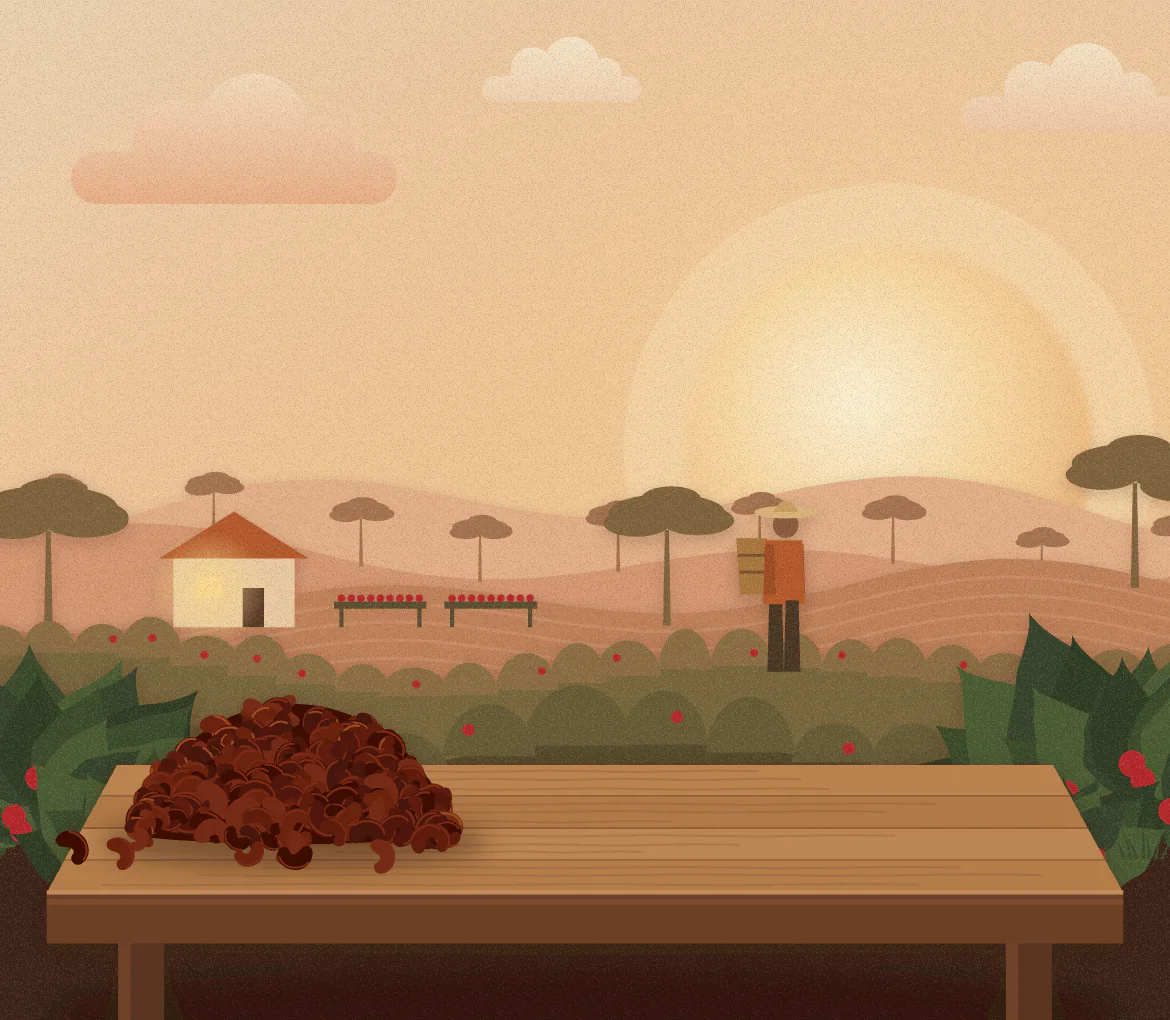
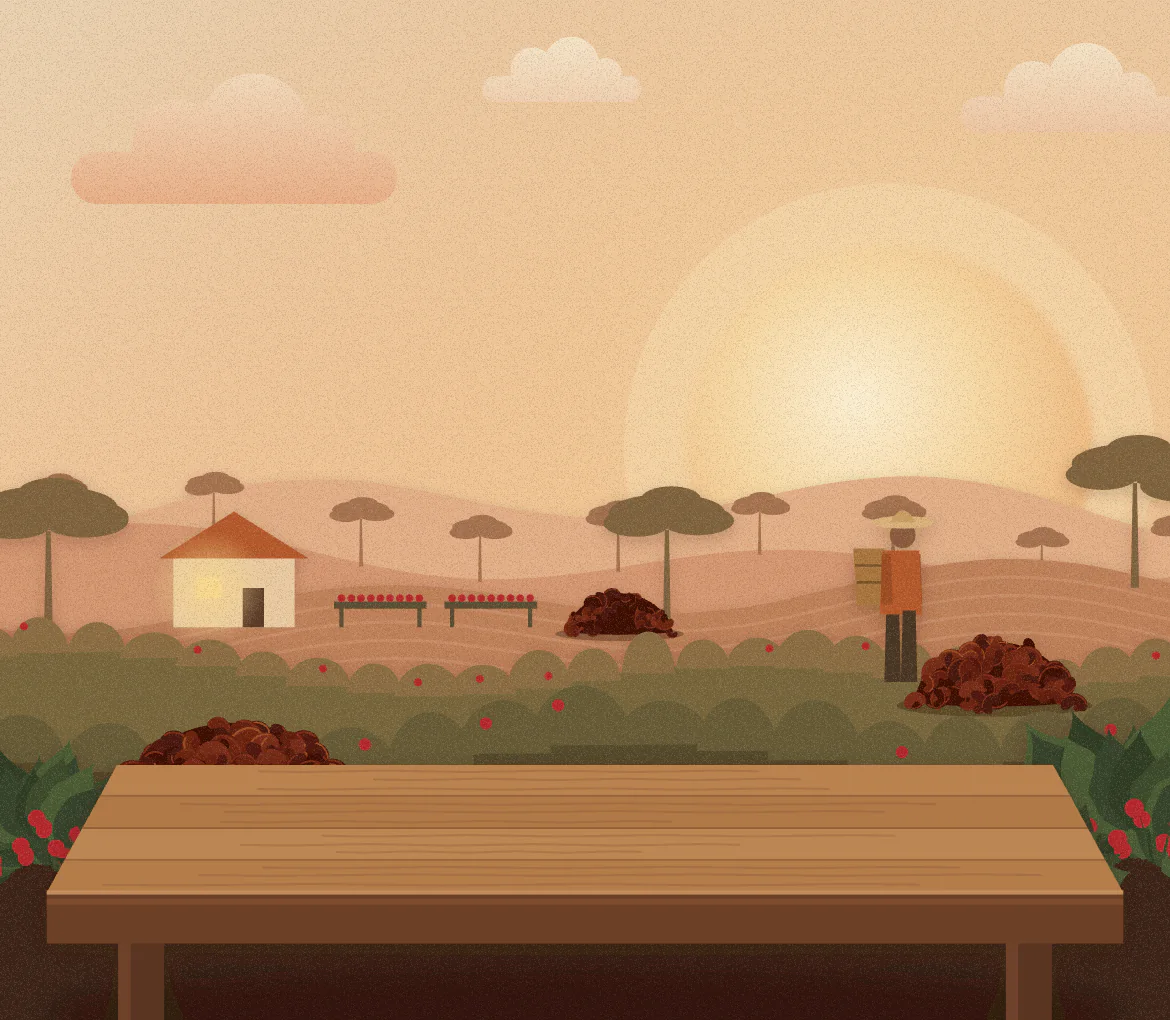
Shop: both kinds stand on the table side by side (Original left, Cozy Spice right, each in the size chosen in its card); the cascara heap off the table, three heaps of cascara out in the field; the farmer further right, clear of the bottles

diff --git a/_build/shopscene/scene.html b/_build/shopscene/scene.html
@@ -27,6 +27,21 @@
     const band = (cr, fill) => `<path fill="${fill}" d="${curve(cr)}L${f1(W * 1.06)} ${f1(H + 20)}L${f1(-W * .06)} ${f1(H + 20)}Z"/>`;
     const shadow = (id, dy, sd, o) => `<filter id="${id}" x="-10%" y="-10%" width="120%" height="130%"><feDropShadow dx="0" dy="${f1(dy)}" stdDeviation="${f1(sd)}" flood-color="rgb(${C.ink})" flood-opacity="${o}"/></filter>`;
     const L = {};
+    const husk = (x, y, s, a, c, rim) => `<g transform="translate(${f1(x)} ${f1(y)}) rotate(${f1(a)}) scale(${f1(s)})"><path fill="${c}" d="M-1 .15C-1.02-.4-.62-.86-.05-.88C.5-.9.98-.55 1.02-.05C1.05.32.78.5.48.38C.3.3.38.08.2.02C-.05-.06-.2.22-.38.42C-.6.62-.98.55-1 .15Z"/><path fill="none" stroke="${rim}" stroke-width=".12" stroke-linecap="round" d="M-.78-.42C-.5-.74-.05-.8.35-.7C.62-.62.85-.4.9-.15"/></g>`;
+    const browns = ['#3d1106', '#4f170a', '#5e1f0c', '#6b2410', '#47140a', '#742a12'];
+    const cascaraHeap = (hx, hy, hw, hh, n, size) => {
+      let t = `<ellipse cx="${f1(hx)}" cy="${f1(hy + hh * .04)}" rx="${f1(hw * .6)}" ry="${f1(hh * .18)}" fill="#2b1206" opacity=".35"/>`;
+      const top = [];
+      for (let i = 0; i <= 24; i++) { const u = -1 + 2 * i / 24; top.push([hx + u * hw / 2, hy - hh * Math.pow(Math.max(0, 1 - u * u), .62)]); }
+      t += `<path fill="#3d1106" d="${curve(top)}Q${f1(hx)} ${f1(hy + hh * .12)} ${f1(hx - hw / 2)} ${f1(hy)}Z"/>`;
+      const pieces = [];
+      for (let i = 0; i < n; i++) {
+        const u = rnd() * 2 - 1, cap = Math.pow(Math.max(0, 1 - u * u), .62), v = Math.pow(rnd(), .7) * cap;
+        pieces.push([hx + u * hw * .49, hy - v * hh * .98 + hh * .03, size * (.8 + rnd() * .55), rnd() * 360, browns[(rnd() * browns.length) | 0], v > cap * .75 && rnd() < .5 ? '#9c4b23' : '#7a2c14']);
+      }
+      pieces.sort((a, b) => a[1] - b[1]).forEach((q) => { t += husk(...q); });
+      return t;
+    };
 
     // the sky: the evening glow, the sun low on the right behind the hills, a few clouds
     const sx = W * .5 + Math.min(W * .26, H * .62), sy = H * .44, R = H * .2;
@@ -58,23 +73,27 @@
       <g filter="url(#s2)">${band(m0, C.ridge[2])}${terr}<path fill="${C.tree[1]}" d="${mtrees}"/>
       <path fill="${C.wall}" d="${F.wall}"/><path fill="${C.roof}" d="${F.roof}"/><path fill="${C.door}" d="${F.door}"/><path fill="${C.window}" d="${F.win}"/>
       <circle cx="${f1(F.glow[0])}" cy="${f1(F.glow[1])}" r="${f1(F.glow[2])}" fill="url(#wg)"/>
-      <path fill="${C.tree[2]}" d="${F.beds}"/><path fill="${C.berry}" d="${F.cherries}"/></g>`;
+      <path fill="${C.tree[2]}" d="${F.beds}"/><path fill="${C.berry}" d="${F.cherries}"/>
+      ${cascaraHeap(fx + fs * 5.4, crestAt(m0, fx + fs * 5.4) + H * .022, fs * 1.5, fs * .55, 40, fs * .1)}</g>`;
 
     // the field close by: two rows of coffee shrubs with ripe cherries, and the farmer among them
     const n0 = ground(H * .655, H * .016, 3.1), n1 = ground(H * .745, H * .014, 4.4);
     const r0 = shrubRow(n0, H * .004, -W * .05, W * 1.05, H * .03, H * .034, rnd, true);
     const r1 = shrubRow(n1, H * .004, -W * .05, W * 1.05, H * .046, H * .05, rnd, true);
-    const fm = farmer(H * .09), px = W * .5 + Math.min(W * .17, H * .4), py = crestAt(n0, px) + H * .012;
+    const fm = farmer(H * .09), px = W * .5 + Math.min(W * .27, H * .6), py = crestAt(n0, px) + H * .012;
+    const hA = W * .5 - Math.min(W * .3, H * .68), hB = W * .5 + Math.min(W * .35, H * .8);
     L.near = `<defs>${shadow('s3', H * .006, H * .008, .26)}</defs><g filter="url(#s3)">
       ${band(n0, C.ridge[4])}<path fill="${C.row[0]}" d="${r0.d}"/><path fill="${C.berry}" d="${r0.b}"/>
+      ${cascaraHeap(hB, crestAt(n0, hB) + H * .02, H * .16, H * .06, 70, H * .011)}
       <g transform="translate(${f1(px - fm.w / 2)} ${f1(py - fm.h)})">${fm.svg}</g>
-      ${band(n1, C.ridge[5])}<path fill="${C.row[1]}" d="${r1.d}"/><path fill="${C.berry}" d="${r1.b}"/></g>`;
+      ${band(n1, C.ridge[5])}<path fill="${C.row[1]}" d="${r1.d}"/><path fill="${C.berry}" d="${r1.b}"/>
+      ${cascaraHeap(hA, crestAt(n1, hA) + H * .03, H * .24, H * .085, 110, H * .014)}</g>`;
 
     // in front: the dark soil, and big shrubs at the edges, close to the eye
     const s0 = ground(H * .835, H * .008, 5.2);
     let front = '';
     for (const [x, s] of [[W * .5 - Math.min(W * .47, H * 1.18), .2], [W * .5 + Math.min(W * .47, H * 1.18), .22], [W * .5 - Math.min(W * .38, H * .98), .13], [W * .5 + Math.min(W * .4, H * 1.0), .12]]) {
-      const sp = shrubPiece(H * s, rnd);
+      const sp = shrubPiece(Math.min(H * s, W * s * .62), rnd);
       front += `<g transform="translate(${f1(x - sp.w / 2)} ${f1(H * .9 - sp.h)})">${sp.svg}</g>`;
     }
     for (let i = 0; i < 7; i++) { const tf = tuft(H * (.03 + rnd() * .02), rnd), x = W * (.05 + i * .15 + rnd() * .05); front += `<g transform="translate(${f1(x)} ${f1(crestAt(s0, x) - tf.h + H * .01)})">${tf.svg}</g>`; }
@@ -105,23 +124,6 @@
       }
     }
     t += `<path d="M${f1(fr[0])} ${f1(y1)}H${f1(fr[1])}" stroke="#d29a68" stroke-width="${f1(H * .004)}" opacity=".8"/>`;
-    // a heap of cascara on the left: dried husks – curled shells of deep mahogany, packed into a soft dome
-    const hx = W / 2 - Math.min(H * .44, W * .25), hy = H * .82, hw = Math.min(H * .34, W * .27), hh = H * .13;
-    const browns = ['#3d1106', '#4f170a', '#5e1f0c', '#6b2410', '#47140a', '#742a12'];
-    const husk = (x, y, s, a, c, rim) => `<g transform="translate(${f1(x)} ${f1(y)}) rotate(${f1(a)}) scale(${f1(s)})"><path fill="${c}" d="M-1 .15C-1.02-.4-.62-.86-.05-.88C.5-.9.98-.55 1.02-.05C1.05.32.78.5.48.38C.3.3.38.08.2.02C-.05-.06-.2.22-.38.42C-.6.62-.98.55-1 .15Z"/><path fill="none" stroke="${rim}" stroke-width=".12" stroke-linecap="round" d="M-.78-.42C-.5-.74-.05-.8.35-.7C.62-.62.85-.4.9-.15"/></g>`;
-    t += `<ellipse cx="${f1(hx)}" cy="${f1(hy + hh * .04)}" rx="${f1(hw * .62)}" ry="${f1(hh * .2)}" fill="#3a1d10" opacity=".5" filter="url(#soft)"/>`;
-    // the mound beneath, so no table shows through, then the shells on it from the back to the front
-    const top = [];
-    for (let i = 0; i <= 24; i++) { const u = -1 + 2 * i / 24; top.push([hx + u * hw / 2, hy - hh * Math.pow(Math.max(0, 1 - u * u), .62)]); }
-    t += `<path fill="#3d1106" d="${curve(top)}Q${f1(hx)} ${f1(hy + hh * .12)} ${f1(hx - hw / 2)} ${f1(hy)}Z"/>`;
-    const pieces = [];
-    for (let i = 0; i < 230; i++) {
-      const u = rr() * 2 - 1, cap = Math.pow(Math.max(0, 1 - u * u), .62), v = Math.pow(rr(), .7) * cap;
-      const c = browns[(rr() * browns.length) | 0];
-      pieces.push([hx + u * hw * .49, hy - v * hh * .98 + H * .004, H * (.012 + rr() * .008), rr() * 360, c, v > cap * .75 && rr() < .5 ? '#9c4b23' : '#7a2c14']);
-    }
-    for (let i = 0; i < 12; i++) pieces.push([hx + (rr() * 2 - 1) * hw * .8, hy + (rr() - .2) * hh * .2, H * (.012 + rr() * .006), rr() * 360, browns[(rr() * browns.length) | 0], '#7a2c14']);
-    pieces.sort((a, b) => a[1] - b[1]).forEach((q) => { t += husk(...q); });
     L.table = `<defs><filter id="soft" x="-30%" y="-80%" width="160%" height="260%"><feGaussianBlur stdDeviation="${f1(H * .012)}"/></filter>${shadow('s5', H * .006, H * .01, .35)}</defs><g filter="url(#s5)">${t}</g>`;
 
     // every layer painted once at K device pixels, with the paper's grain, as the opening does

diff --git a/fr/index.html b/fr/index.html
@@ -53,8 +53,8 @@
     }
   </style>
   <noscript><style>.loader { display: none; }</style></noscript>
-  <link rel="stylesheet" href="../assets/fonts.css?v=20261030182225">
-  <link rel="stylesheet" href="../styles.css?v=20261030182225">
+  <link rel="stylesheet" href="../assets/fonts.css?v=20261030183001">
+  <link rel="stylesheet" href="../styles.css?v=20261030183001">
 </head>
 <body>
   <a class="skip" href="#main">Aller au contenu</a>
@@ -206,13 +206,13 @@
         </header>
         <div class="shop__stage" data-reveal data-shop-stage>
           <picture><source media="(max-width: 700px)" srcset="../assets/shop/feld-390.webp" width="390" height="340"><img class="shop__field" src="../assets/shop/feld-1360.webp" width="1360" height="560" alt="Une table en bois dans la plantation de café au soleil du soir, avec un tas de cascara" loading="lazy" decoding="async"></picture>
-          <span class="stand-bottle stand-bottle--200" data-kind="original" data-ml="200"><img src="../assets/shop/stand/original-200.webp" width="212" height="469" alt="Original, flasque de 200 ml" loading="lazy" decoding="async"></span>
-          <span class="stand-bottle stand-bottle--500 is-shown" data-kind="original" data-ml="500"><img src="../assets/shop/stand/original-500.webp" width="146" height="605" alt="Original, bouteille de 500 ml" decoding="async"></span>
-          <span class="stand-bottle stand-bottle--200" data-kind="cozy-spice" data-ml="200"><img src="../assets/shop/stand/cozy-spice-200.webp" width="212" height="469" alt="Cozy Spice, flasque de 200 ml" loading="lazy" decoding="async"></span>
-          <span class="stand-bottle stand-bottle--500" data-kind="cozy-spice" data-ml="500"><img src="../assets/shop/stand/cozy-spice-500.webp" width="146" height="605" alt="Cozy Spice, bouteille de 500 ml" loading="lazy" decoding="async"></span>
+          <span class="stand-bottle stand-bottle--200 stand-bottle--l" data-kind="original" data-ml="200"><img src="../assets/shop/stand/original-200.webp" width="212" height="469" alt="Original, flasque de 200 ml" loading="lazy" decoding="async"></span>
+          <span class="stand-bottle stand-bottle--500 stand-bottle--l is-shown" data-kind="original" data-ml="500"><img src="../assets/shop/stand/original-500.webp" width="146" height="605" alt="Original, bouteille de 500 ml" decoding="async"></span>
+          <span class="stand-bottle stand-bottle--200 stand-bottle--r" data-kind="cozy-spice" data-ml="200"><img src="../assets/shop/stand/cozy-spice-200.webp" width="212" height="469" alt="Cozy Spice, flasque de 200 ml" loading="lazy" decoding="async"></span>
+          <span class="stand-bottle stand-bottle--500 stand-bottle--r is-shown" data-kind="cozy-spice" data-ml="500"><img src="../assets/shop/stand/cozy-spice-500.webp" width="146" height="605" alt="Cozy Spice, bouteille de 500 ml" decoding="async"></span>
         </div>
         <div class="shop__grid">
-        <article class="product product--original is-picked" data-reveal style="--d:0" data-product='{"id": "original", "name": "Original", "sizes": [{"ml": 200, "price": 6.95}, {"ml": 500, "price": 12.95}]}'>
+        <article class="product product--original" data-reveal style="--d:0" data-product='{"id": "original", "name": "Original", "sizes": [{"ml": 200, "price": 6.95}, {"ml": 500, "price": 12.95}]}'>
             <div class="product__top">
               <h3 class="product__name">Original</h3>
               <p class="product__price" data-price>CHF 12.95</p>
@@ -595,9 +595,9 @@
   </dialog>
   <button class="menu-btn" type="button" data-menu-open aria-haspopup="dialog" aria-controls="menu" hidden><img class="menu-btn__bottle" src="../assets/bottle/original-500.webp" alt="" width="140" height="582" decoding="async"><span>Menu</span><i aria-hidden="true"></i></button>
 
-  <script src="../main.js?v=20261030182225" defer></script>
-  <script src="../checkout.js?v=20261030182225" defer></script>
-  <script src="../shop.js?v=20261030182225" defer></script>
-  <script type="module" src="../assets/hero3d.js?v=20261030182225"></script>
+  <script src="../main.js?v=20261030183001" defer></script>
+  <script src="../checkout.js?v=20261030183001" defer></script>
+  <script src="../shop.js?v=20261030183001" defer></script>
+  <script type="module" src="../assets/hero3d.js?v=20261030183001"></script>
 </body>
 </html>

diff --git a/en/index.html b/en/index.html
@@ -53,8 +53,8 @@
     }
   </style>
   <noscript><style>.loader { display: none; }</style></noscript>
-  <link rel="stylesheet" href="../assets/fonts.css?v=20261030182225">
-  <link rel="stylesheet" href="../styles.css?v=20261030182225">
+  <link rel="stylesheet" href="../assets/fonts.css?v=20261030183001">
+  <link rel="stylesheet" href="../styles.css?v=20261030183001">
 </head>
 <body>
   <a class="skip" href="#main">Skip to content</a>
@@ -206,13 +206,13 @@
         </header>
         <div class="shop__stage" data-reveal data-shop-stage>
           <picture><source media="(max-width: 700px)" srcset="../assets/shop/feld-390.webp" width="390" height="340"><img class="shop__field" src="../assets/shop/feld-1360.webp" width="1360" height="560" alt="A wooden table on the coffee plantation in the evening sun, with a heap of cascara on it" loading="lazy" decoding="async"></picture>
-          <span class="stand-bottle stand-bottle--200" data-kind="original" data-ml="200"><img src="../assets/shop/stand/original-200.webp" width="212" height="469" alt="Original, 200 ml hip flask" loading="lazy" decoding="async"></span>
-          <span class="stand-bottle stand-bottle--500 is-shown" data-kind="original" data-ml="500"><img src="../assets/shop/stand/original-500.webp" width="146" height="605" alt="Original, 500 ml bottle" decoding="async"></span>
-          <span class="stand-bottle stand-bottle--200" data-kind="cozy-spice" data-ml="200"><img src="../assets/shop/stand/cozy-spice-200.webp" width="212" height="469" alt="Cozy Spice, 200 ml hip flask" loading="lazy" decoding="async"></span>
-          <span class="stand-bottle stand-bottle--500" data-kind="cozy-spice" data-ml="500"><img src="../assets/shop/stand/cozy-spice-500.webp" width="146" height="605" alt="Cozy Spice, 500 ml bottle" loading="lazy" decoding="async"></span>
+          <span class="stand-bottle stand-bottle--200 stand-bottle--l" data-kind="original" data-ml="200"><img src="../assets/shop/stand/original-200.webp" width="212" height="469" alt="Original, 200 ml hip flask" loading="lazy" decoding="async"></span>
+          <span class="stand-bottle stand-bottle--500 stand-bottle--l is-shown" data-kind="original" data-ml="500"><img src="../assets/shop/stand/original-500.webp" width="146" height="605" alt="Original, 500 ml bottle" decoding="async"></span>
+          <span class="stand-bottle stand-bottle--200 stand-bottle--r" data-kind="cozy-spice" data-ml="200"><img src="../assets/shop/stand/cozy-spice-200.webp" width="212" height="469" alt="Cozy Spice, 200 ml hip flask" loading="lazy" decoding="async"></span>
+          <span class="stand-bottle stand-bottle--500 stand-bottle--r is-shown" data-kind="cozy-spice" data-ml="500"><img src="../assets/shop/stand/cozy-spice-500.webp" width="146" height="605" alt="Cozy Spice, 500 ml bottle" decoding="async"></span>
         </div>
         <div class="shop__grid">
-        <article class="product product--original is-picked" data-reveal style="--d:0" data-product='{"id": "original", "name": "Original", "sizes": [{"ml": 200, "price": 6.95}, {"ml": 500, "price": 12.95}]}'>
+        <article class="product product--original" data-reveal style="--d:0" data-product='{"id": "original", "name": "Original", "sizes": [{"ml": 200, "price": 6.95}, {"ml": 500, "price": 12.95}]}'>
             <div class="product__top">
               <h3 class="product__name">Original</h3>
               <p class="product__price" data-price>CHF 12.95</p>
@@ -595,9 +595,9 @@
   </dialog>
   <button class="menu-btn" type="button" data-menu-open aria-haspopup="dialog" aria-controls="menu" hidden><img class="menu-btn__bottle" src="../assets/bottle/original-500.webp" alt="" width="140" height="582" decoding="async"><span>Menu</span><i aria-hidden="true"></i></button>
 
-  <script src="../main.js?v=20261030182225" defer></script>
-  <script src="../checkout.js?v=20261030182225" defer></script>
-  <script src="../shop.js?v=20261030182225" defer></script>
-  <script type="module" src="../assets/hero3d.js?v=20261030182225"></script>
+  <script src="../main.js?v=20261030183001" defer></script>
+  <script src="../checkout.js?v=20261030183001" defer></script>
+  <script src="../shop.js?v=20261030183001" defer></script>
+  <script type="module" src="../assets/hero3d.js?v=20261030183001"></script>
 </body>
 </html>

diff --git a/index.html b/index.html
@@ -52,8 +52,8 @@
     }
   </style>
   <noscript><style>.loader { display: none; }</style></noscript>
-  <link rel="stylesheet" href="assets/fonts.css?v=20261030182225">
-  <link rel="stylesheet" href="styles.css?v=20261030182225">
+  <link rel="stylesheet" href="assets/fonts.css?v=20261030183001">
+  <link rel="stylesheet" href="styles.css?v=20261030183001">
 </head>
 <body>
   <a class="skip" href="#main">Zum Inhalt springen</a>
@@ -205,13 +205,13 @@
         </header>
         <div class="shop__stage" data-reveal data-shop-stage>
           <picture><source media="(max-width: 700px)" srcset="assets/shop/feld-390.webp" width="390" height="340"><img class="shop__field" src="assets/shop/feld-1360.webp" width="1360" height="560" alt="Ein Holztisch auf der Kaffeeplantage in der Abendsonne, darauf ein Haufen Cascara" loading="lazy" decoding="async"></picture>
-          <span class="stand-bottle stand-bottle--200" data-kind="original" data-ml="200"><img src="assets/shop/stand/original-200.webp" width="212" height="469" alt="Original, Taschenflasche mit 200 ml" loading="lazy" decoding="async"></span>
-          <span class="stand-bottle stand-bottle--500 is-shown" data-kind="original" data-ml="500"><img src="assets/shop/stand/original-500.webp" width="146" height="605" alt="Original, Flasche mit 500 ml" decoding="async"></span>
-          <span class="stand-bottle stand-bottle--200" data-kind="cozy-spice" data-ml="200"><img src="assets/shop/stand/cozy-spice-200.webp" width="212" height="469" alt="Cozy Spice, Taschenflasche mit 200 ml" loading="lazy" decoding="async"></span>
-          <span class="stand-bottle stand-bottle--500" data-kind="cozy-spice" data-ml="500"><img src="assets/shop/stand/cozy-spice-500.webp" width="146" height="605" alt="Cozy Spice, Flasche mit 500 ml" loading="lazy" decoding="async"></span>
+          <span class="stand-bottle stand-bottle--200 stand-bottle--l" data-kind="original" data-ml="200"><img src="assets/shop/stand/original-200.webp" width="212" height="469" alt="Original, Taschenflasche mit 200 ml" loading="lazy" decoding="async"></span>
+          <span class="stand-bottle stand-bottle--500 stand-bottle--l is-shown" data-kind="original" data-ml="500"><img src="assets/shop/stand/original-500.webp" width="146" height="605" alt="Original, Flasche mit 500 ml" decoding="async"></span>
+          <span class="stand-bottle stand-bottle--200 stand-bottle--r" data-kind="cozy-spice" data-ml="200"><img src="assets/shop/stand/cozy-spice-200.webp" width="212" height="469" alt="Cozy Spice, Taschenflasche mit 200 ml" loading="lazy" decoding="async"></span>
+          <span class="stand-bottle stand-bottle--500 stand-bottle--r is-shown" data-kind="cozy-spice" data-ml="500"><img src="assets/shop/stand/cozy-spice-500.webp" width="146" height="605" alt="Cozy Spice, Flasche mit 500 ml" decoding="async"></span>
         </div>
         <div class="shop__grid">
-        <article class="product product--original is-picked" data-reveal style="--d:0" data-product='{"id": "original", "name": "Original", "sizes": [{"ml": 200, "price": 6.95}, {"ml": 500, "price": 12.95}]}'>
+        <article class="product product--original" data-reveal style="--d:0" data-product='{"id": "original", "name": "Original", "sizes": [{"ml": 200, "price": 6.95}, {"ml": 500, "price": 12.95}]}'>
             <div class="product__top">
               <h3 class="product__name">Original</h3>
               <p class="product__price" data-price>CHF 12.95</p>
@@ -594,9 +594,9 @@
   </dialog>
   <button class="menu-btn" type="button" data-menu-open aria-haspopup="dialog" aria-controls="menu" hidden><img class="menu-btn__bottle" src="assets/bottle/original-500.webp" alt="" width="140" height="582" decoding="async"><span>Menü</span><i aria-hidden="true"></i></button>
 
-  <script src="main.js?v=20261030182225" defer></script>
-  <script src="checkout.js?v=20261030182225" defer></script>
-  <script src="shop.js?v=20261030182225" defer></script>
-  <script type="module" src="assets/hero3d.js?v=20261030182225"></script>
+  <script src="main.js?v=20261030183001" defer></script>
+  <script src="checkout.js?v=20261030183001" defer></script>
+  <script src="shop.js?v=20261030183001" defer></script>
+  <script type="module" src="assets/hero3d.js?v=20261030183001"></script>
 </body>
 </html>

diff --git a/styles.css b/styles.css
@@ -608,28 +608,27 @@ html.has-menu, html.has-menu body { overflow: hidden; }
 .shop__head .eyebrow { grid-column: 1 / -1; }
 .shop__head .display { grid-column: 1 / span 6; margin-top: 26px; }
 .shop__intro { grid-column: 8 / span 5; color: var(--ink-2); }
-/* the picture: our table on the coffee field at dusk (_build/shopscene), and on it the bottle chosen below, standing
-   where the picture's light falls, with its own soft shadow; one bottle fades into the other */
-.shop__stage { position: relative; margin-top: clamp(40px, 5vw, 72px); aspect-ratio: 1360 / 560; border-radius: 30px; overflow: hidden;
+/* the picture: our table on the coffee field at dusk (_build/shopscene), and on it both kinds side by side, each in the
+   size chosen below, with its own soft shadow; a change of size fades one bottle into the other */
+.shop__stage { --apart: 7.5%; position: relative; margin-top: clamp(40px, 5vw, 72px); aspect-ratio: 1360 / 560; border-radius: 30px; overflow: hidden;
   background: #E6D3B7; box-shadow: 0 40px 70px -50px rgba(58, 33, 22, .55); }
 .shop__field { position: absolute; inset: 0; width: 100%; height: 100%; object-fit: cover; }
-.stand-bottle { position: absolute; left: 50%; bottom: 16.5%; height: 52%; aspect-ratio: 146 / 605; opacity: 0;
+.stand-bottle { position: absolute; left: calc(50% - var(--apart)); bottom: 16.5%; height: 52%; aspect-ratio: 146 / 605; opacity: 0;
   transform: translate3d(-50%, 12px, 0); transition: opacity .5s var(--ease), transform .8s var(--ease); }
 .stand-bottle--200 { height: 40.3%; aspect-ratio: 212 / 469; }
+.stand-bottle--r { left: calc(50% + var(--apart)); }
 .stand-bottle img { position: relative; display: block; width: 100%; height: 100%; }
 .stand-bottle::before { content: ""; position: absolute; left: -55%; right: -55%; bottom: -4%; height: 9%; border-radius: 50%;
   background: radial-gradient(closest-side, rgba(43, 24, 16, .5), rgba(43, 24, 16, 0)); }
 .stand-bottle.is-shown { opacity: 1; transform: translate3d(-50%, 0, 0); }
-@media (max-width: 700px) { .shop__stage { aspect-ratio: 390 / 340; border-radius: 24px; } }
+@media (max-width: 700px) { .shop__stage { --apart: 14%; aspect-ratio: 390 / 340; border-radius: 24px; } }
 
-/* the two kinds side by side beneath the picture: the chosen one is the one on the table */
+/* the two kinds side by side beneath the picture, as they stand on the table: the Original left, Cozy Spice right */
 .shop__grid { margin-top: 16px; display: grid; grid-template-columns: repeat(2, minmax(0, 1fr)); grid-template-rows: repeat(5, auto); gap: 0 16px; }
 /* both cards share one set of rows (subgrid): name and price, what it is, the sizes, the button stand at the same
    height in both, however their words wrap */
-.product { display: grid; grid-row: span 5; grid-template-rows: subgrid; row-gap: 12px; align-content: start; padding: 26px 28px 28px; border-radius: 26px; cursor: pointer;
-  border: 1px solid var(--line); background: rgba(255, 250, 242, .22); transition: border-color .3s, background-color .3s, box-shadow .3s; }
-.product:hover { border-color: rgba(58, 33, 22, .3); }
-.product.is-picked { border-color: rgba(180, 89, 42, .6); background: rgba(255, 250, 242, .55); box-shadow: 0 26px 44px -36px rgba(58, 33, 22, .55); }
+.product { display: grid; grid-row: span 5; grid-template-rows: subgrid; row-gap: 12px; align-content: start; padding: 26px 28px 28px; border-radius: 26px;
+  border: 1px solid var(--line); background: rgba(255, 250, 242, .45); box-shadow: 0 26px 44px -38px rgba(58, 33, 22, .45); }
 .product__top { display: flex; flex-wrap: wrap; align-items: baseline; justify-content: space-between; gap: 4px 14px; }
 .product__name { font: 600 clamp(1.75rem, 2.6vw, 2.6rem)/1 var(--brand); color: var(--terra); }
 .product__price { font: 600 clamp(1.15rem, 1.6vw, 1.5rem)/1 var(--brand); white-space: nowrap; font-variant-numeric: tabular-nums; }

diff --git a/shop.js b/shop.js
@@ -47,10 +47,10 @@
   };
   const total = () => subtotal() + shipping();
 
-  // ---- the product cards: kind is the card, size and number are chosen on it; the chosen bottle stands on the
-  // table in the picture above them (one fades into the other) -------------------------------------------------
+  // ---- the product cards: kind is the card, size and number are chosen on it; both kinds stand on the table in
+  // the picture above them, each in the size chosen in its card (one size fades into the other) ------------------
   const standing = [...document.querySelectorAll('[data-shop-stage] [data-kind]')];
-  const stand = (id, m) => standing.forEach((b) => b.classList.toggle('is-shown', b.dataset.kind === id && +b.dataset.ml === m));
+  const stand = (id, m) => standing.forEach((b) => { if (b.dataset.kind === id) b.classList.toggle('is-shown', +b.dataset.ml === m); });
   for (const card of products) {
     const data = JSON.parse(card.dataset.product);
     const sizes = [...card.querySelectorAll('[data-size]')];
@@ -58,19 +58,13 @@
     const qty = card.querySelector('[data-qty] input');
     const add = card.querySelector('[data-add]');
     let ml = +(sizes.find((b) => b.getAttribute('aria-pressed') === 'true') || sizes[0]).dataset.size;
-    const choose = () => {
-      products.forEach((c) => c.classList.toggle('is-picked', c === card));
-      stand(data.id, ml);
-    };
     const pick = (m) => {
       ml = m;
       sizes.forEach((b) => b.setAttribute('aria-pressed', String(+b.dataset.size === m)));
       price.textContent = fmt(data.sizes.find((s) => s.ml === m).price);
-      choose();
+      stand(data.id, m);
     };
     sizes.forEach((b) => b.addEventListener('click', () => pick(+b.dataset.size)));
-    // the card itself chooses its kind (its buttons do their own work)
-    card.addEventListener('click', (e) => { if (!e.target.closest('button, input, a')) choose(); });
     if (!add) continue;                // the shop is not open yet: the sizes show, nothing goes into a basket
     const clampQty = () => { qty.value = String(Math.min(24, Math.max(1, Math.round(+qty.value) || 1))); };
     card.querySelectorAll('[data-step]').forEach((b) => b.addEventListener('click', () => {

diff --git a/fr/partizipation.html b/fr/partizipation.html
@@ -53,8 +53,8 @@
     }
   </style>
   <noscript><style>.loader { display: none; }</style></noscript>
-  <link rel="stylesheet" href="../assets/fonts.css?v=20261030182225">
-  <link rel="stylesheet" href="../styles.css?v=20261030182225">
+  <link rel="stylesheet" href="../assets/fonts.css?v=20261030183001">
+  <link rel="stylesheet" href="../styles.css?v=20261030183001">
 </head>
 <body class="is-ps">
   <a class="skip" href="#main">Aller au contenu</a>
@@ -280,8 +280,8 @@
 
   <button class="menu-btn" type="button" data-menu-open aria-haspopup="dialog" aria-controls="menu" hidden><img class="menu-btn__bottle" src="../assets/bottle/original-500.webp" alt="" width="140" height="582" decoding="async"><span>Menu</span><i aria-hidden="true"></i></button>
 
-  <script src="../main.js?v=20261030182225" defer></script>
-  <script src="../checkout.js?v=20261030182225" defer></script>
-  <script src="../ps.js?v=20261030182225" defer></script>
+  <script src="../main.js?v=20261030183001" defer></script>
+  <script src="../checkout.js?v=20261030183001" defer></script>
+  <script src="../ps.js?v=20261030183001" defer></script>
 </body>
 </html>

diff --git a/en/partizipation.html b/en/partizipation.html
@@ -53,8 +53,8 @@
     }
   </style>
   <noscript><style>.loader { display: none; }</style></noscript>
-  <link rel="stylesheet" href="../assets/fonts.css?v=20261030182225">
-  <link rel="stylesheet" href="../styles.css?v=20261030182225">
+  <link rel="stylesheet" href="../assets/fonts.css?v=20261030183001">
+  <link rel="stylesheet" href="../styles.css?v=20261030183001">
 </head>
 <body class="is-ps">
   <a class="skip" href="#main">Skip to content</a>
@@ -280,8 +280,8 @@
 
   <button class="menu-btn" type="button" data-menu-open aria-haspopup="dialog" aria-controls="menu" hidden><img class="menu-btn__bottle" src="../assets/bottle/original-500.webp" alt="" width="140" height="582" decoding="async"><span>Menu</span><i aria-hidden="true"></i></button>
 
-  <script src="../main.js?v=20261030182225" defer></script>
-  <script src="../checkout.js?v=20261030182225" defer></script>
-  <script src="../ps.js?v=20261030182225" defer></script>
+  <script src="../main.js?v=20261030183001" defer></script>
+  <script src="../checkout.js?v=20261030183001" defer></script>
+  <script src="../ps.js?v=20261030183001" defer></script>
 </body>
 </html>

diff --git a/partizipation.html b/partizipation.html
@@ -52,8 +52,8 @@
     }
   </style>
   <noscript><style>.loader { display: none; }</style></noscript>
-  <link rel="stylesheet" href="assets/fonts.css?v=20261030182225">
-  <link rel="stylesheet" href="styles.css?v=20261030182225">
+  <link rel="stylesheet" href="assets/fonts.css?v=20261030183001">
+  <link rel="stylesheet" href="styles.css?v=20261030183001">
 </head>
 <body class="is-ps">
   <a class="skip" href="#main">Zum Inhalt springen</a>
@@ -279,8 +279,8 @@
 
   <button class="menu-btn" type="button" data-menu-open aria-haspopup="dialog" aria-controls="menu" hidden><img class="menu-btn__bottle" src="assets/bottle/original-500.webp" alt="" width="140" height="582" decoding="async"><span>Menü</span><i aria-hidden="true"></i></button>
 
-  <script src="main.js?v=20261030182225" defer></script>
-  <script src="checkout.js?v=20261030182225" defer></script>
-  <script src="ps.js?v=20261030182225" defer></script>
+  <script src="main.js?v=20261030183001" defer></script>
+  <script src="checkout.js?v=20261030183001" defer></script>
+  <script src="ps.js?v=20261030183001" defer></script>
 </body>
 </html>

diff --git a/_build/content.py b/_build/content.py
@@ -309,8 +309,8 @@ PERKS = [
 
 
 def shop():
-    # Above, one picture: our table on the coffee field at dusk, and on it the bottle chosen below. Below, the two
-    # kinds side by side: choosing a kind or a size puts that bottle on the table.
+    # Above, one picture: our table on the coffee field at dusk, and on it both kinds side by side – the Original on
+    # the left, Cozy Spice on the right, each in the size chosen in its card below.
     cards, stand = [], []
     for n, pr in enumerate(PRODUCTS):
         data = json.dumps({'id': pr['id'], 'name': pr['name'],
@@ -321,8 +321,8 @@ def shop():
             for ml, price in pr['sizes'])
         for ml, _ in pr['sizes']:
             w, h = STAND[ml]
-            shown = n == 0 and ml == FIRST
-            stand.append(f'          <span class="stand-bottle stand-bottle--{ml}{" is-shown" if shown else ""}" data-kind="{pr["id"]}" data-ml="{ml}">'
+            shown = ml == FIRST
+            stand.append(f'          <span class="stand-bottle stand-bottle--{ml} stand-bottle--{"lr"[n]}{" is-shown" if shown else ""}" data-kind="{pr["id"]}" data-ml="{ml}">'
                          f'<img src="assets/shop/stand/{pr["id"]}-{ml}.webp" width="{w}" height="{h}" alt="{pr["name"]}, {BOTTLE_NAME[ml]} mit {ml} ml"'
                          f'{"" if shown else " loading=" + chr(34) + "lazy" + chr(34)} decoding="async"></span>')
         price0 = dict(pr['sizes'])[FIRST]
@@ -338,7 +338,7 @@ def shop():
                 '              <button type="button" class="button product__add product__soon" disabled>Bald erhältlich</button>\n'
                 '            </div>\n')
         cards.append(
-            f'        <article class="product product--{pr["id"]}{" is-picked" if n == 0 else ""}" data-reveal style="--d:{n}" data-product=\'{data}\'>\n'
+            f'        <article class="product product--{pr["id"]}" data-reveal style="--d:{n}" data-product=\'{data}\'>\n'
             '            <div class="product__top">\n'
             f'              <h3 class="product__name">{pr["name"]}</h3>\n'
             f'              <p class="product__price" data-price>CHF {chf(price0)}</p>\n'
